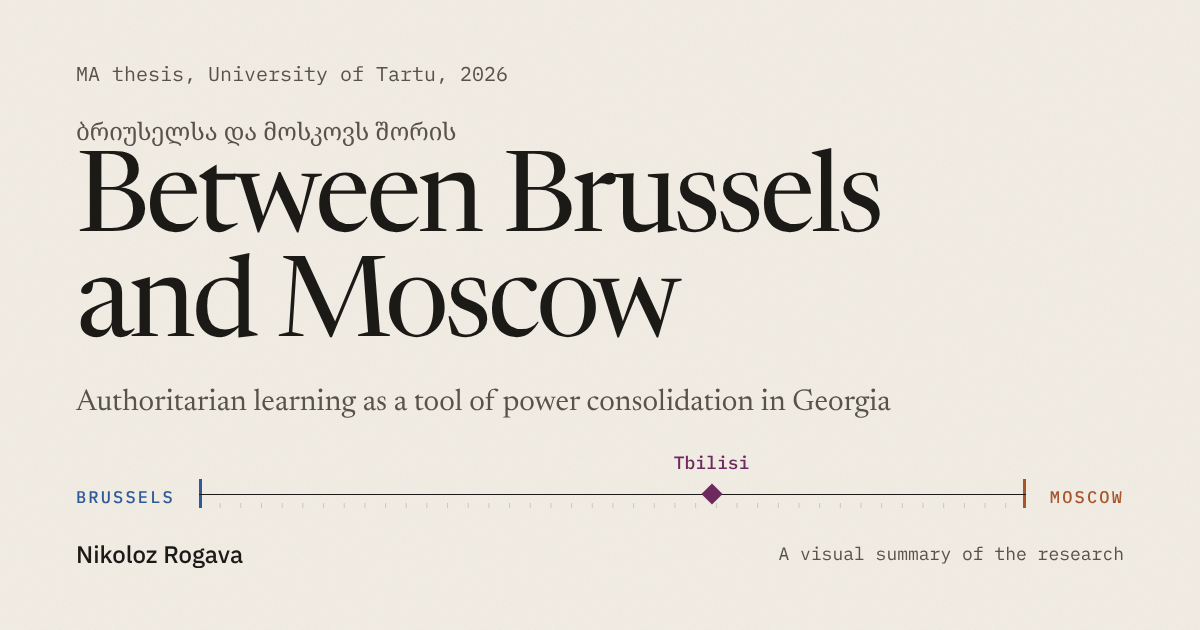
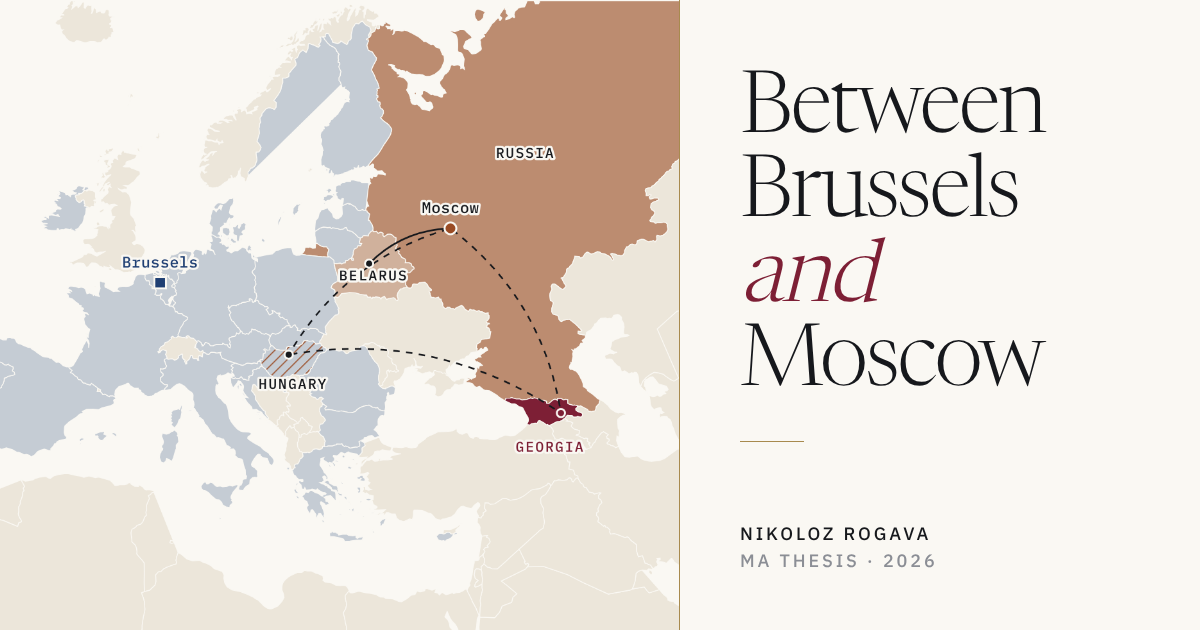
New map-based link preview image
Claude-Session: https://claude.ai/code/session_018WimQLUPxMJUCbvkJDTQm7

diff --git a/index.html b/index.html
@@ -17,7 +17,7 @@
 <meta property="og:image" content="https://rogavanikolozi-a11y.github.io/Authoritarian-Georgia/images/og-card.png">
 <meta property="og:image:width" content="1200">
 <meta property="og:image:height" content="630">
-<meta property="og:image:alt" content="Between Brussels and Moscow: a thin axis from Brussels to Moscow with Tbilisi marked between them.">
+<meta property="og:image:alt" content="Map of Europe linking Brussels, Moscow, Belarus, Hungary and Georgia, beside the title Between Brussels and Moscow.">
 <link rel="canonical" href="https://rogavanikolozi-a11y.github.io/Authoritarian-Georgia/">
 <meta property="og:url" content="https://rogavanikolozi-a11y.github.io/Authoritarian-Georgia/">
 <meta property="og:site_name" content="Nikoloz Rogava">
